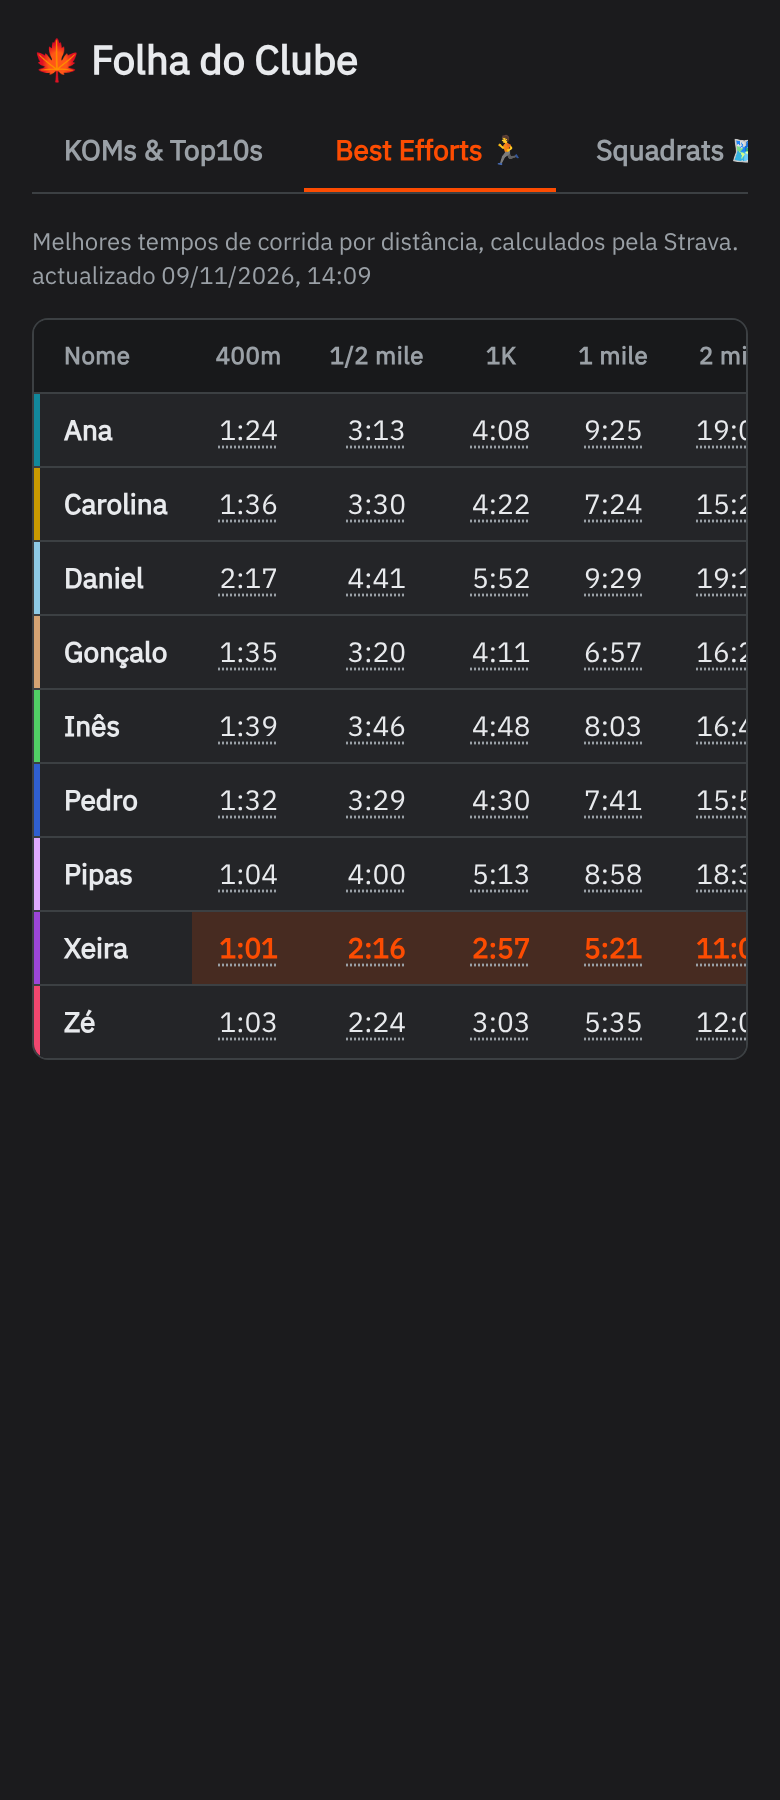
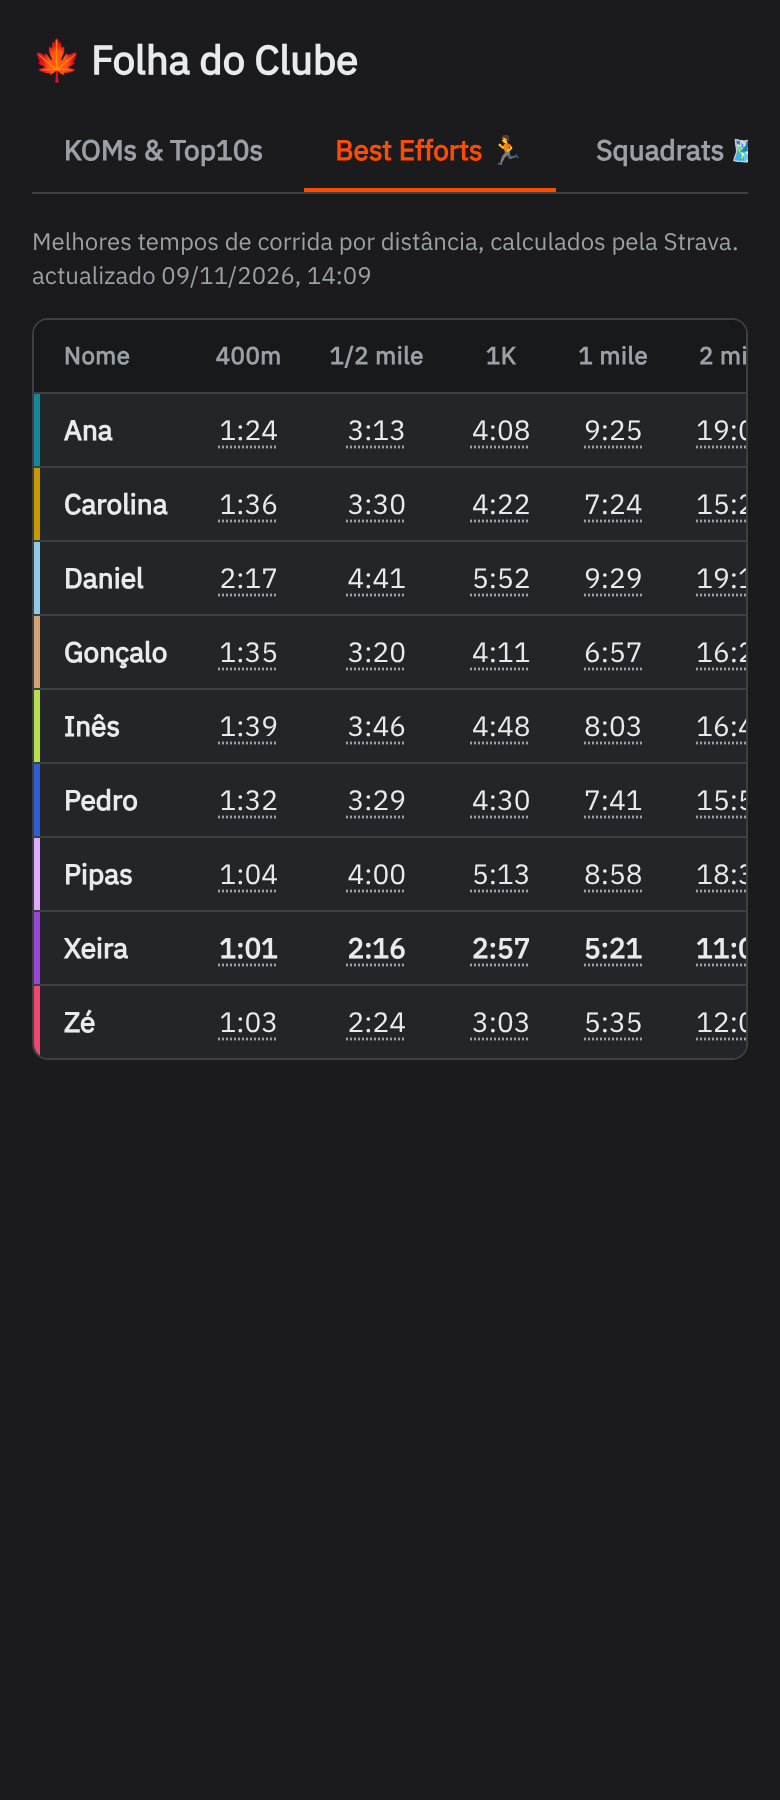
test: casos para zeros/traços, dica por toque (390px com has_touch) e cores do ficheiro; screenshots depois actualizados
Claude-Session: https://claude.ai/code/session_01WJkU6S5ugc6xGG54LSDnes

Changed region(s): [[0.2462, 0.4978, 0.9538, 0.56], [0.0308, 0.3733, 0.0615, 0.4356]]

diff --git a/tests/harness.py b/tests/harness.py
@@ -281,6 +281,7 @@ SQUADRATS = {"atualizado": "2026-09-25T06:07:24Z", "atletas": {
     "Xeira": {"squadrats": 471, "squadratinhos": 6100, "yard": 116, "yardinho": 145, "ubersquadrat": 9, "ubersquadratinho": 9},
     "Inês S.": {"squadrats": 120, "squadratinhos": 900, "yard": None, "yardinho": 30, "ubersquadrat": 3, "ubersquadratinho": 5},
     "Pedro": {"squadrats": 480, "squadratinhos": 10, "yard": 5, "yardinho": 1, "ubersquadrat": 2},
+    "Zero": {"squadrats": 0, "squadratinhos": 0, "yard": 0, "yardinho": None, "ubersquadrat": 0, "ubersquadratinho": None},
     "Novo": {"squadrats": 1, "squadratinhos": 2, "yard": 0, "yardinho": 0, "ubersquadrat": 1, "ubersquadratinho": 1},
 }}
 GANHOS = {"gerado": "2026-09-25T06:07:26Z", "dias": [
@@ -289,8 +290,10 @@ GANHOS = {"gerado": "2026-09-25T06:07:26Z", "dias": [
     {"data": "2026-09-20", "atletas": {"Pedro": {"squadrats": -1, "yard": 3}, "Inês S.": {"squadratinhos": 7}}},
     {"data": "2026-09-25", "atletas": {"Carolina": {"squadrats": 2, "squadratinhos": 23}}},
 ]}
-CORES = {"cores": {"Zé": "#e03131", "Xeira": "#9c46d8", "Carolina": "#c99a00", "Inês S.": "#e8710a",
-                   "Inês": "#e8710a", "Ana": "#12889c", "Pedro": "#010203"}}
+# espelha membros_cores.json (squadrats-club): a folha já não tem mapeamento próprio
+CORES = {"cores": {"Zé": "#f0476f", "Xeira": "#9c46d8", "Carolina": "#c99a00", "Inês S.": "#b8e04a",
+                   "Inês": "#b8e04a", "Ana": "#12889c", "Pedro": "#010203",
+                   "Daniel": "#8ecae6", "Gonçalo": "#d4a373", "Pipas": "#e0aaff"}}
 
 SNAP_JS = r"""async () => {
   await document.fonts.ready;
@@ -335,9 +338,10 @@ def casos_site():
                 raw + "data/data/squadrats.json": SQUADRATS,
                 raw + "data/data/daily_gains.json": GANHOS}
 
-    def abrir(browser, falhas=(), largura=1280, ordem=ORDEM_JSON):
+    def abrir(browser, falhas=(), largura=1280, ordem=ORDEM_JSON, toque=False):
         ctx = browser.new_context(viewport={"width": largura, "height": 900}, locale="pt-PT",
-                                  timezone_id="Europe/Lisbon", reduced_motion="reduce")
+                                  timezone_id="Europe/Lisbon", reduced_motion="reduce",
+                                  has_touch=toque, is_mobile=toque)
         erros = []
 
         pendentes = {}
@@ -419,8 +423,20 @@ def casos_site():
             r[f"pill {a}"] = resumo(page.inner_html("#f-atleta") + page.inner_text("#conta"))
         separador(page, "best-efforts")
         snap(page, "best-efforts")
+        r["best efforts: melhor tempo sem fundo, destaque leve se um membro domina"] = page.evaluate(
+            """() => { const t = document.querySelector('#prs td.melhor');
+              return [document.getElementById('prs').classList.contains('dominante'),
+                      getComputedStyle(t).backgroundColor, getComputedStyle(t).fontWeight]; }""")
+        r["ranking: só membros com pontos"] = page.evaluate(
+            "[...document.querySelectorAll('#ranking tbody tr')].every(tr => +tr.cells[3].textContent > 0)")
+        r["prs: sem linhas só de traços"] = page.evaluate(
+            "[...document.querySelectorAll('#prs tbody tr')].every(tr => [...tr.cells].slice(1).some(c => c.textContent.trim() !== '—'))")
         separador(page, "squadrats")
         snap(page, "squadrats")
+        r["squadrats: sem membros só com zeros/vazios"] = page.eval_on_selector_all(
+            "#squadrats td.atleta", "ts => ts.map(t => t.textContent.trim())")
+        r["ganhos: colunas só com membros com ganhos"] = page.eval_on_selector_all(
+            "#ganhos-tabela thead th", "ts => ts.map(t => t.textContent.trim())")
         r["podio bolinhas"] = page.eval_on_selector_all(".riser .dot", """ds => ds.map(d => {
             const b = d.getBoundingClientRect(), c = getComputedStyle(d);
             return `${Math.round(b.width)}x${Math.round(b.height)} ${c.backgroundColor} ${c.borderRadius}`; })""")
@@ -430,10 +446,18 @@ def casos_site():
         page.focus('#squadrats th[data-c="yard"]')
         page.keyboard.press("Enter")
         r["metrica teclado yard"] = resumo(page.inner_html("#tab-squadrats"))
+        # explicações dos cabeçalhos: hover, clique no i (fixa) e Escape
+        dica = "() => [document.getElementById('dica').hidden, document.getElementById('dica').textContent]"
         page.hover('#squadrats th[data-c="squadrats"]')
-        r["tooltip"] = page.evaluate("""() => { const c = getComputedStyle(
-            document.querySelector('#squadrats th[data-c="squadrats"]'), '::after');
-            return [c.content, c.top, c.width, c.backgroundColor].join('|'); }""")
+        r["dica: hover"] = page.evaluate(dica)
+        page.mouse.move(0, 0)
+        r["dica: hover sai"] = page.evaluate(dica)
+        page.click('#squadrats th[data-c="ubersquadrat"] .info')   # a métrica activa é outra (yard)
+        r["dica: clique no i"] = page.evaluate(dica)
+        r["dica: clique no i não muda a métrica"] = page.evaluate(
+            "document.querySelector('#squadrats th.metrica-activa').dataset.c")
+        page.keyboard.press("Escape")
+        r["dica: Escape"] = page.evaluate(dica)
         page.goto("http://folha.test/#invalido")
         r["hash invalido"] = page.evaluate("[...document.querySelectorAll('.panel.active')].map(p => p.id)")
         r["consola"] = erros
@@ -450,7 +474,7 @@ def casos_site():
 
         # telemóvel (390px): a página nunca tem scroll horizontal, as tabs ficam numa só linha
         # e o ritmo ("3:34/km") não parte
-        ctx, page, erros = abrir(browser, largura=390)
+        ctx, page, erros = abrir(browser, largura=390, toque=True)
         for t in ("koms", "best-efforts", "squadrats"):
             separador(page, t)
             r[f"390px {t}: sem scroll horizontal da página"] = page.evaluate(
@@ -464,6 +488,14 @@ def casos_site():
                 return r.getClientRects().length === 1; })""")
         r["390px: tabela larga com scroll próprio"] = page.evaluate(
             "[...document.querySelectorAll('.tabela-wrap')].every(w => w.scrollWidth >= w.clientWidth)")
+        separador(page, "squadrats")
+        page.tap('#squadrats th[data-c="ubersquadrat"] .info')
+        r["390px toque: abre a explicação"] = page.evaluate(dica)
+        page.tap('#squadrats th[data-c="ubersquadrat"] .info')
+        r["390px toque: segundo toque fecha"] = page.evaluate(dica)
+        page.tap('#squadrats th[data-c="yard"] .info')
+        page.tap("h1")
+        r["390px toque: toque fora fecha"] = page.evaluate(dica)
         ctx.close()
 
         for nome, falhas in (("sem-data", ["data.json"]), ("sem-prs", ["prs.json"]),

diff --git a/tests/screenshots.py b/tests/screenshots.py
@@ -42,6 +42,11 @@ def main():
     saida.mkdir(parents=True, exist_ok=True)
     cache = Path(os.environ.get("SCREENSHOTS_CACHE", RAIZ / ".screenshots-cache"))
     externos = carregar(cache)
+    # SCREENSHOTS_CORES: membros_cores.json alternativo (ex.: o do PR do squadrats-club
+    # ainda por fazer merge); por omissão, o do main
+    if os.environ.get("SCREENSHOTS_CORES"):
+        externos[RAW + "main/data/membros_cores.json"] = json.loads(
+            Path(os.environ["SCREENSHOTS_CORES"]).read_text(encoding="utf-8"))
     with sync_playwright() as p:
         browser = p.chromium.launch(channel=os.environ.get("HARNESS_BROWSER", "msedge") or None,
                                     executable_path=os.environ.get("HARNESS_EXECUTABLE") or None)
@@ -73,6 +78,11 @@ def main():
                                     clip={"x": 0, "y": 0, "width": w, "height": 1500})
                 else:
                     page.screenshot(path=str(saida / f"{t}-{w}.png"), full_page=True)
+                # explicação de uma coluna aberta (só nas versões com o botão i)
+                if t == "squadrats" and w == 390 and page.query_selector("#squadrats th .info"):
+                    page.click('#squadrats th[data-c="yard"] .info')
+                    page.wait_for_timeout(200)
+                    page.screenshot(path=str(saida / "squadrats-dica-390.png"))
             ctx.close()
         browser.close()
     print("screenshots em", saida)
